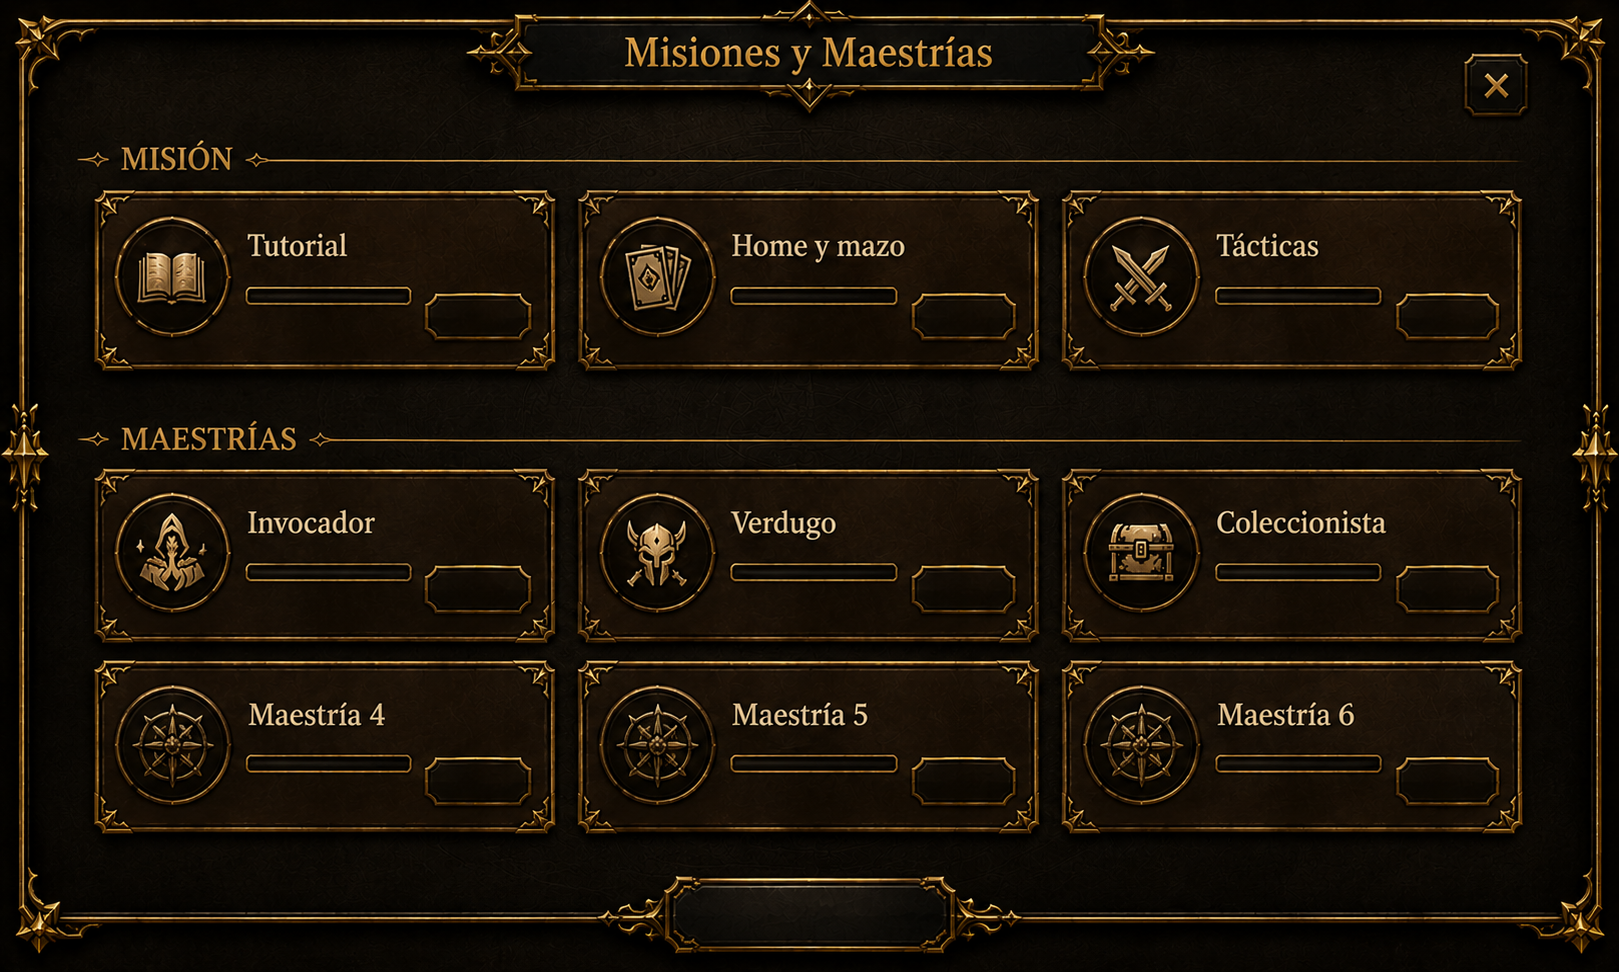
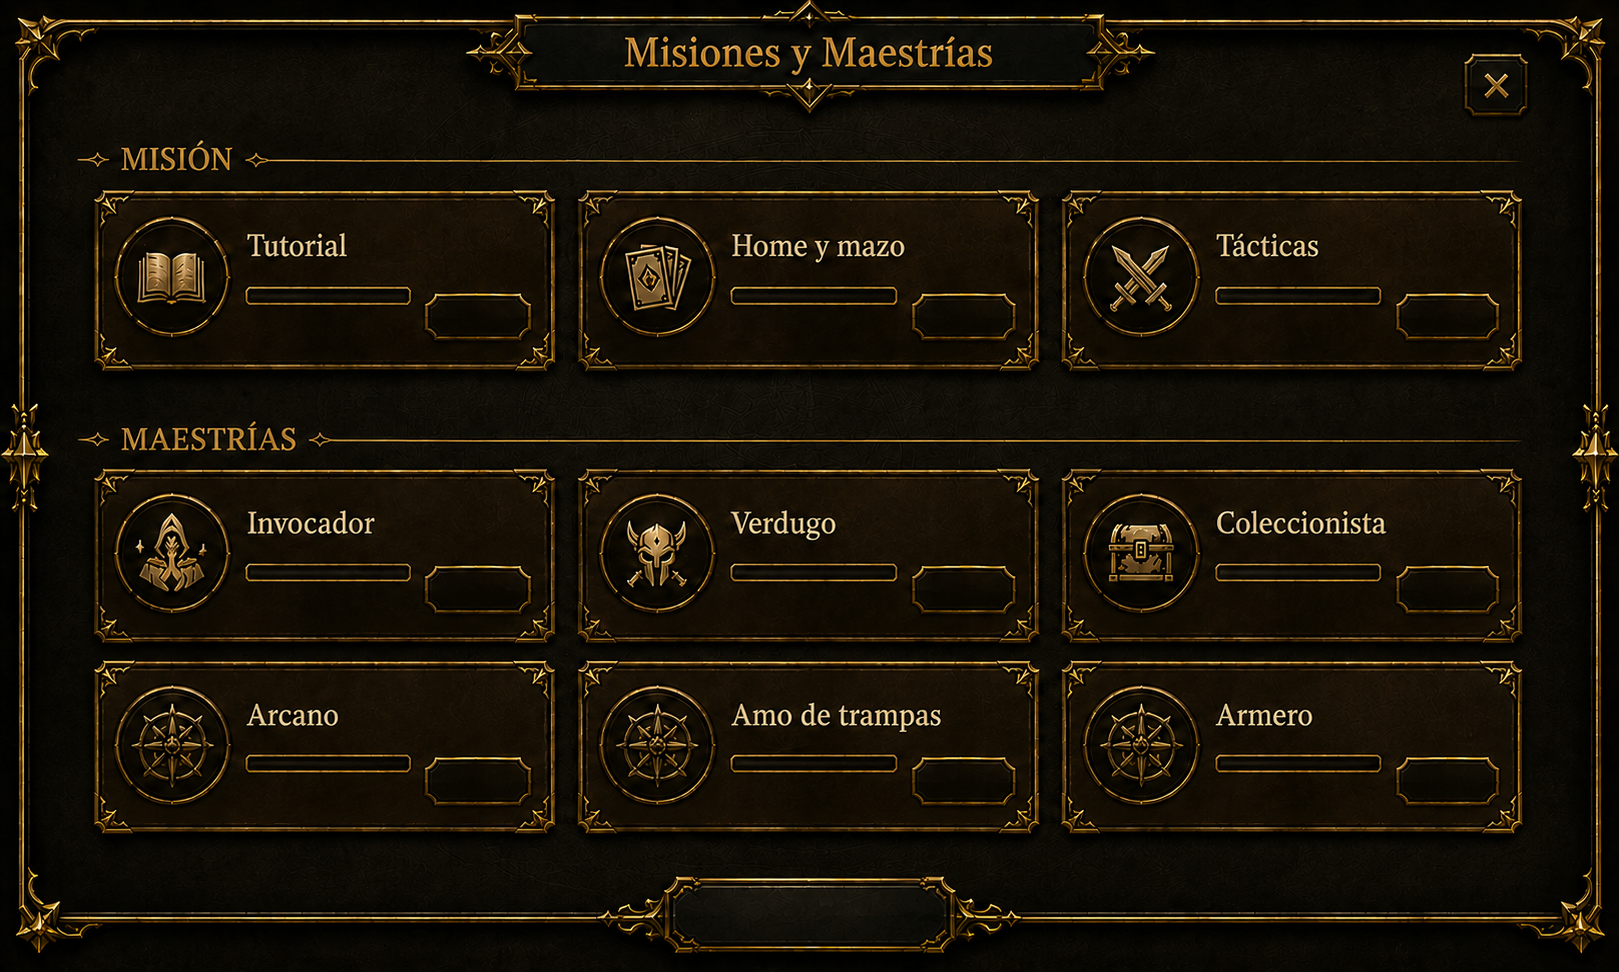
fix misiones

diff --git a/js/parts/15-settings-tuners-events.js b/js/parts/15-settings-tuners-events.js
@@ -851,20 +851,9 @@ function renderMasteryHomeBadge(){
    ============================================================ */
 const HV_MISSIONS_ART_W=1619;
 const HV_MISSIONS_ART_H=972;
-const HV_MISSIONS_LAYOUT_STORAGE_KEY="hallvalla_missions_visual_layout_v1";
+const HV_MISSIONS_LAYOUT_STORAGE_KEY="hallvalla_missions_visual_layout_v2";
 const HV_MISSIONS_TUNER_POS_KEY="hallvalla_missions_visual_tuner_pos_v1";
-const HV_MISSIONS_LAYOUT_DEFAULT=Object.freeze({
-  tutorial:{bar:{x:248,y:290,w:150,h:8},number:{x:247,y:309,w:116,h:24,font:20},button:{x:422,y:287,w:106,h:48}},
-  home:{bar:{x:748,y:290,w:151,h:8},number:{x:747,y:309,w:116,h:24,font:20},button:{x:912,y:287,w:104,h:48}},
-  tactics:{bar:{x:1205,y:290,w:151,h:8},number:{x:1204,y:309,w:116,h:24,font:20},button:{x:1380,y:287,w:107,h:48}},
-  mastery1:{bar:{x:248,y:562,w:150,h:8},number:{x:247,y:581,w:116,h:24,font:19},button:{x:422,y:558,w:106,h:48}},
-  mastery2:{bar:{x:748,y:562,w:151,h:8},number:{x:747,y:581,w:116,h:24,font:19},button:{x:912,y:558,w:104,h:48}},
-  mastery3:{bar:{x:1205,y:562,w:151,h:8},number:{x:1204,y:581,w:116,h:24,font:19},button:{x:1380,y:558,w:107,h:48}},
-  mastery4:{bar:{x:248,y:751,w:150,h:8},number:{x:247,y:770,w:116,h:24,font:19},button:{x:422,y:747,w:106,h:48}},
-  mastery5:{bar:{x:748,y:751,w:151,h:8},number:{x:747,y:770,w:116,h:24,font:19},button:{x:912,y:747,w:104,h:48}},
-  mastery6:{bar:{x:1205,y:751,w:151,h:8},number:{x:1204,y:770,w:116,h:24,font:19},button:{x:1380,y:747,w:107,h:48}},
-  claimAll:{button:{x:669,y:871,w:282,h:65}}
-});
+const HV_MISSIONS_LAYOUT_DEFAULT=Object.freeze({"tutorial":{"bar":{"x":248,"y":291,"w":150,"h":8},"number":{"x":247,"y":309,"w":116,"h":24,"font":20},"button":{"x":422,"y":291,"w":106,"h":48}},"home":{"bar":{"x":748,"y":290,"w":151,"h":8},"number":{"x":747,"y":309,"w":116,"h":24,"font":20},"button":{"x":912,"y":287,"w":104,"h":48}},"tactics":{"bar":{"x":1205,"y":285,"w":151,"h":8},"number":{"x":1204,"y":309,"w":116,"h":24,"font":20},"button":{"x":1391,"y":291,"w":117,"h":48}},"mastery1":{"bar":{"x":248,"y":568,"w":150,"h":8},"number":{"x":247,"y":595,"w":116,"h":24,"font":19},"button":{"x":422,"y":558,"w":106,"h":48}},"mastery2":{"bar":{"x":733,"y":568,"w":151,"h":8},"number":{"x":747,"y":581,"w":116,"h":24,"font":19},"button":{"x":912,"y":558,"w":104,"h":48}},"mastery3":{"bar":{"x":1205,"y":562,"w":151,"h":8},"number":{"x":1204,"y":581,"w":116,"h":24,"font":19},"button":{"x":1380,"y":558,"w":107,"h":48}},"mastery4":{"bar":{"x":248,"y":761,"w":150,"h":8},"number":{"x":247,"y":782,"w":116,"h":24,"font":19},"button":{"x":422,"y":747,"w":106,"h":48}},"mastery5":{"bar":{"x":748,"y":686,"w":151,"h":8},"number":{"x":747,"y":777,"w":116,"h":24,"font":19},"button":{"x":912,"y":747,"w":104,"h":48}},"mastery6":{"bar":{"x":1222,"y":761,"w":151,"h":8},"number":{"x":1222,"y":782,"w":116,"h":24,"font":19},"button":{"x":1380,"y":747,"w":107,"h":48}},"claimAll":{"button":{"x":669,"y":871,"w":282,"h":65}}});
 function cloneHvMissionsLayout(src=HV_MISSIONS_LAYOUT_DEFAULT){return JSON.parse(JSON.stringify(src));}
 function readHvMissionsLayout(){
   try{
@@ -897,8 +886,11 @@ function hvVisualProgressHtml(slot,pct,label){
 function hvMissionActionHtml(slot,id,label,disabled=false){
   return `<button id="${id}" class="hv-mission-action-slot" data-hv-layout-slot="${slot}" data-hv-layout-element="button" type="button" ${disabled?"disabled":""}>${escapeHtml(label)}</button>`;
 }
-function hvMasteryClaimHtml(slot,key,target,rewardTitle=""){
-  return `<button class="hv-mission-image-button hv-mastery-claim-one" data-hv-layout-slot="${slot}" data-hv-layout-element="button" data-mastery-key="${escapeHtml(key)}" data-mastery-target="${Number(target)||0}" type="button" aria-label="Reclamar recompensa ${escapeHtml(rewardTitle)}" title="${escapeHtml(rewardTitle)}"><img src="assets/ui/missions/btn_reclamar.png" alt="Reclamar" draggable="false"></button>`;
+function hvMasteryClaimHtml(slot,key,target,rewardTitle="",disabled=false){
+  const safeKey=escapeHtml(key||"");
+  const safeTitle=escapeHtml(rewardTitle||"");
+  const aria=safeTitle?`Reclamar recompensa ${safeTitle}`:"Reclamar recompensa";
+  return `<button class="hv-mission-image-button hv-mastery-claim-one" data-hv-layout-slot="${slot}" data-hv-layout-element="button" data-mastery-key="${safeKey}" data-mastery-target="${Number(target)||0}" type="button" aria-label="${aria}" title="${safeTitle}" ${disabled?"disabled":""}><img src="assets/ui/missions/btn_reclamar.png" alt="Reclamar" draggable="false"></button>`;
 }
 function renderAccountMasteries(){
   const list=$("accountMasteryList"),claimAll=$("claimAllMasteryRewardsBtn");
@@ -906,9 +898,11 @@ function renderAccountMasteries(){
   const profile=getPlayerProfile();
   const defs=Object.values(ACCOUNT_MASTERY_DEFS);
   const pendingTotal=getPendingAccountMasteryRewardCount(profile);
-  if(claimAll){claimAll.classList.toggle("hidden",pendingTotal<=0);claimAll.disabled=pendingTotal<=0;claimAll.dataset.hvLayoutSlot="claimAll";claimAll.dataset.hvLayoutElement="button";}
-  // El arte reserva el tercer espacio para Coleccionista, que todavía no existe como
-  // maestría funcional en esta build. No reutilizamos ahí el contador de otra maestría.
+  if(claimAll){claimAll.classList.remove("hidden");claimAll.disabled=pendingTotal<=0;claimAll.dataset.hvLayoutSlot="claimAll";claimAll.dataset.hvLayoutElement="button";}
+  // La build tiene cinco maestrías funcionales de cuenta:
+  // 1 Invocador, 2 Verdugo, 4 Arcanista, 5 Trampero y 6 Armero.
+  // El slot visual 3 dice "Coleccionista" en el arte, pero esa maestría todavía no existe
+  // en ACCOUNT_MASTERY_DEFS, por lo que se mantiene sin contador funcional.
   const slotByKey={summons:"mastery1",kills:"mastery2",spells:"mastery4",traps:"mastery5",equipment:"mastery6"};
   list.innerHTML=defs.map(def=>{
     const slot=slotByKey[def.key];if(!slot)return"";
@@ -920,7 +914,8 @@ function renderAccountMasteries(){
     const pct=current?Math.max(0,Math.min(100,(rec.count/target)*100)):100;
     const ready=!!(current&&rec.count>=target);
     const label=current?`${shown.toLocaleString("es-ES")}/${target.toLocaleString("es-ES")}`:"MAX";
-    const claim=ready?hvMasteryClaimHtml(slot,def.key,current.target,formatAccountMasteryMilestoneRewards(current)):"";
+    const rewardTitle=current?formatAccountMasteryMilestoneRewards(current):"";
+    const claim=hvMasteryClaimHtml(slot,def.key,current?.target||0,rewardTitle,!ready);
     return hvVisualProgressHtml(slot,pct,label)+claim;
   }).join("");
   list.querySelectorAll("[data-mastery-key][data-mastery-target]").forEach(btn=>btn.addEventListener("click",()=>{
@@ -962,7 +957,7 @@ function openMissionsPanel(){const p=$("missionsPanel");if(!p)return;renderAccou
 function closeMissionsPanel(){const p=$("missionsPanel");if(p)p.classList.add("hidden");}
 
 /* ---------- Tuner visual: posición/tamaño + JSON ---------- */
-const HV_MISSIONS_TUNER_SLOT_LABELS={tutorial:"Tutorial",home:"Home y mazo",tactics:"Tácticas",mastery1:"Invocador",mastery2:"Verdugo",mastery3:"Coleccionista / slot 3",mastery4:"Maestría 4",mastery5:"Maestría 5",mastery6:"Maestría 6",claimAll:"Reclamar todo"};
+const HV_MISSIONS_TUNER_SLOT_LABELS={tutorial:"Tutorial",home:"Home y mazo",tactics:"Tácticas",mastery1:"Invocador",mastery2:"Verdugo",mastery3:"Coleccionista / sin lógica todavía",mastery4:"Maestría 4 · Arcanista",mastery5:"Maestría 5 · Trampero",mastery6:"Maestría 6 · Armero",claimAll:"Reclamar todo"};
 function initHvMissionsTunerOptions(){
   const select=$("missionsTunerSlot");if(!select||select.options.length)return;
   select.innerHTML=Object.keys(HV_MISSIONS_TUNER_SLOT_LABELS).map(key=>`<option value="${key}">${HV_MISSIONS_TUNER_SLOT_LABELS[key]}</option>`).join("");

diff --git a/index.html b/index.html
@@ -742,7 +742,7 @@ Para abrir tu camino en HallValla, tendrás que derrotarlo con estrategia, Honor
     <div id="tutorialMissionList" class="hv-missions-dynamic-layer hv-tutorial-visual-layer"></div>
     <div id="accountMasteryList" class="hv-missions-dynamic-layer hv-mastery-visual-layer"></div>
 
-    <button id="claimAllMasteryRewardsBtn" class="hv-mission-image-button hv-mission-claim-all hidden" type="button" aria-label="Reclamar todas las recompensas pendientes">
+    <button id="claimAllMasteryRewardsBtn" class="hv-mission-image-button hv-mission-claim-all" type="button" aria-label="Reclamar todas las recompensas pendientes">
       <img src="assets/ui/missions/btn_reclamar_todo.png" alt="Reclamar todo" draggable="false">
     </button>
 
